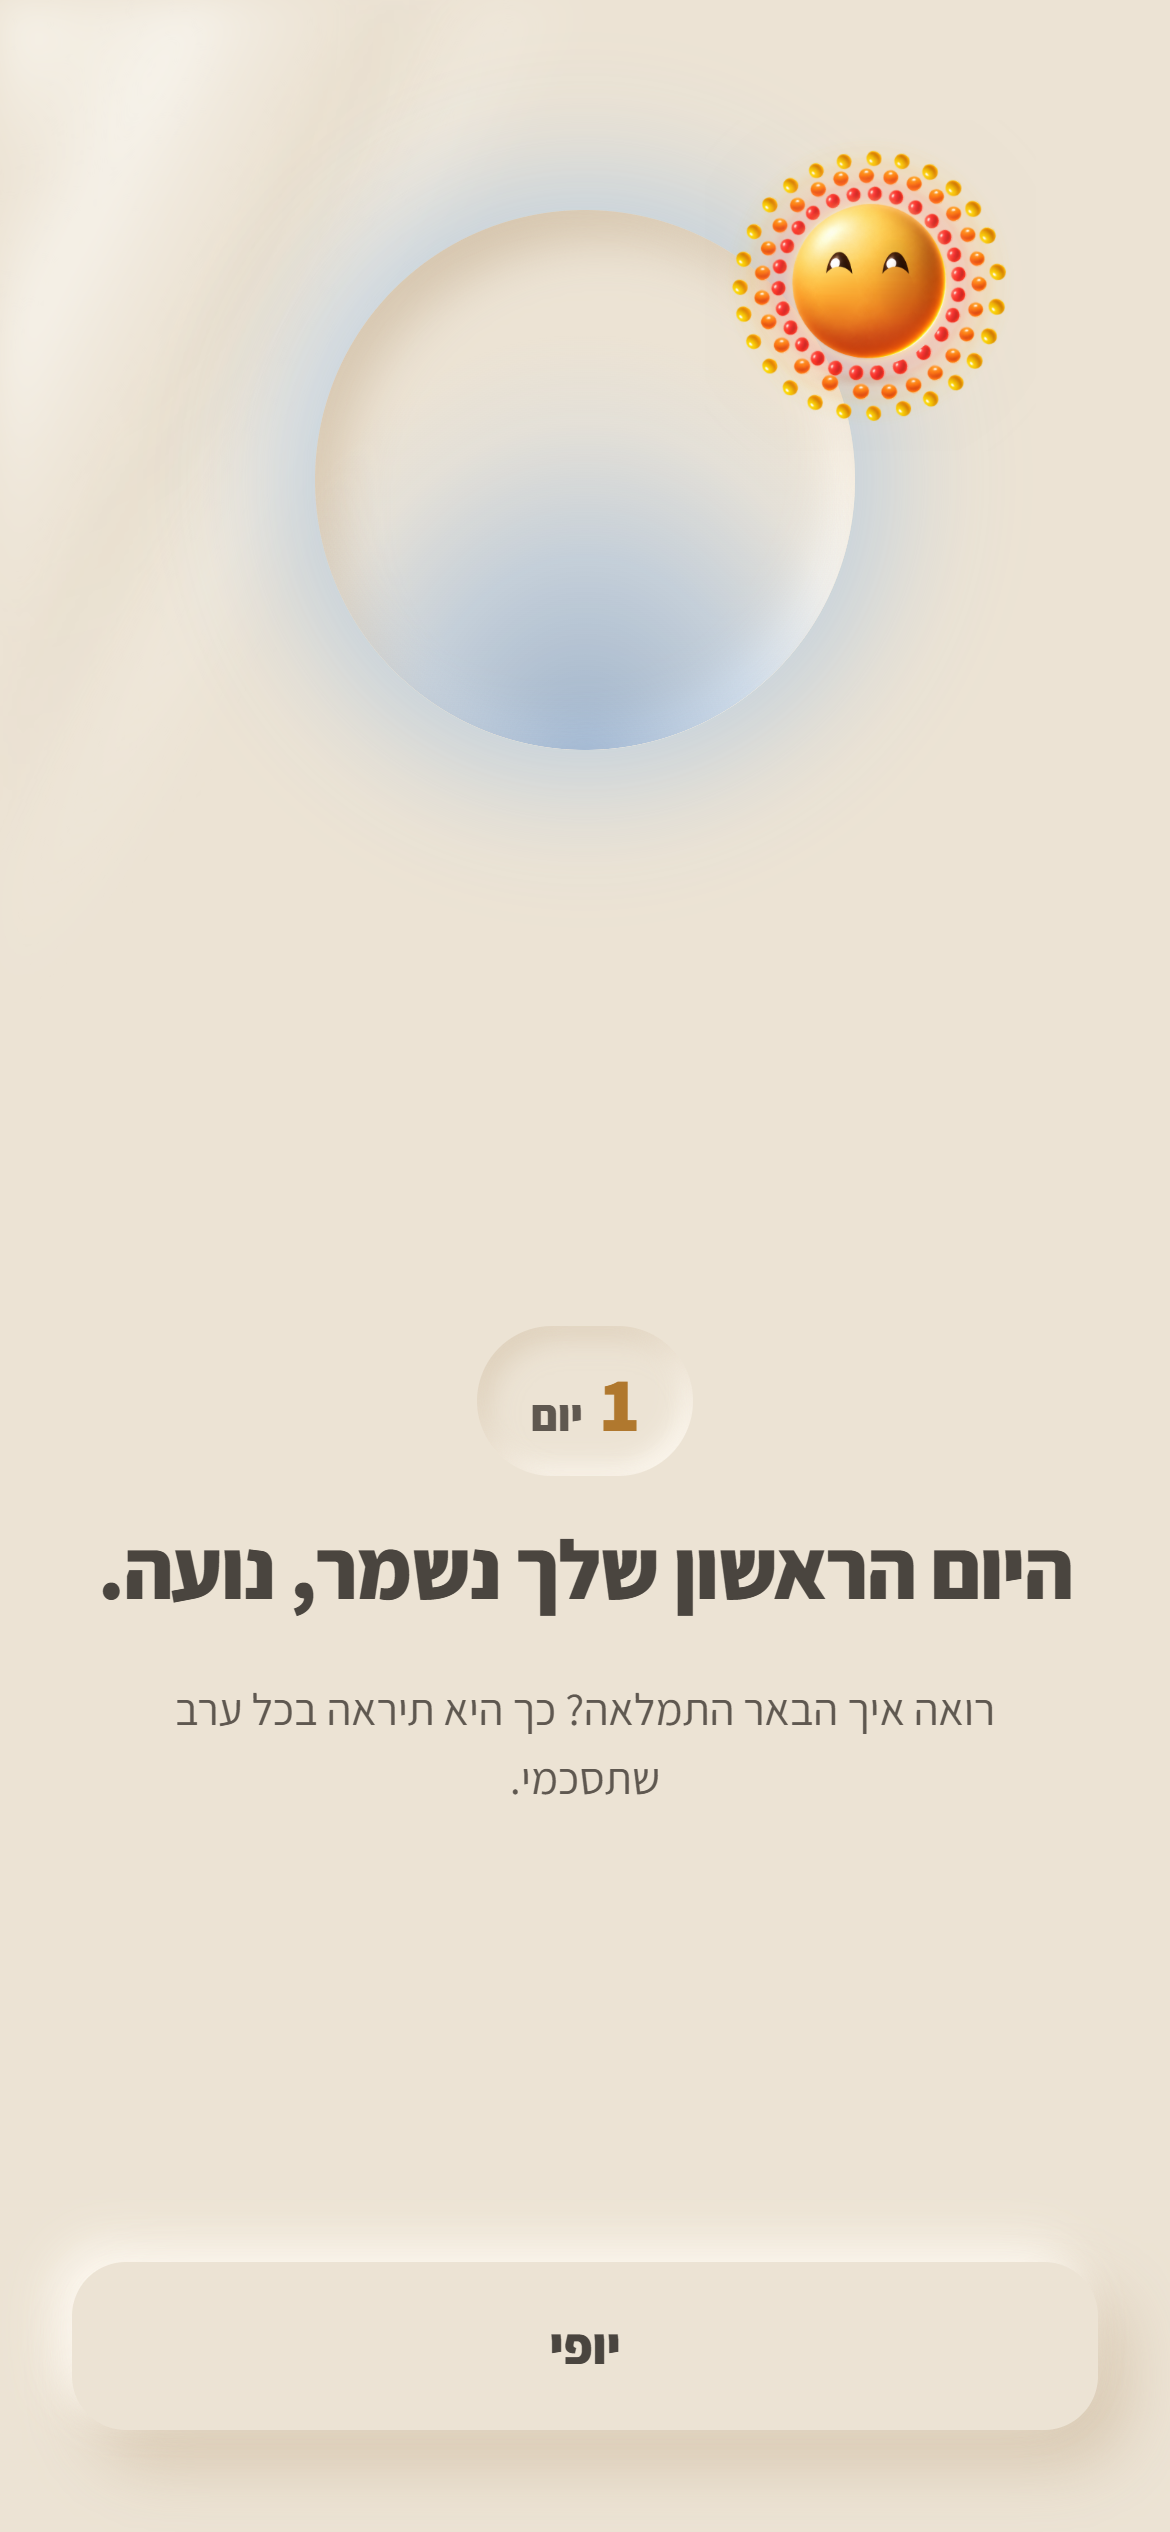
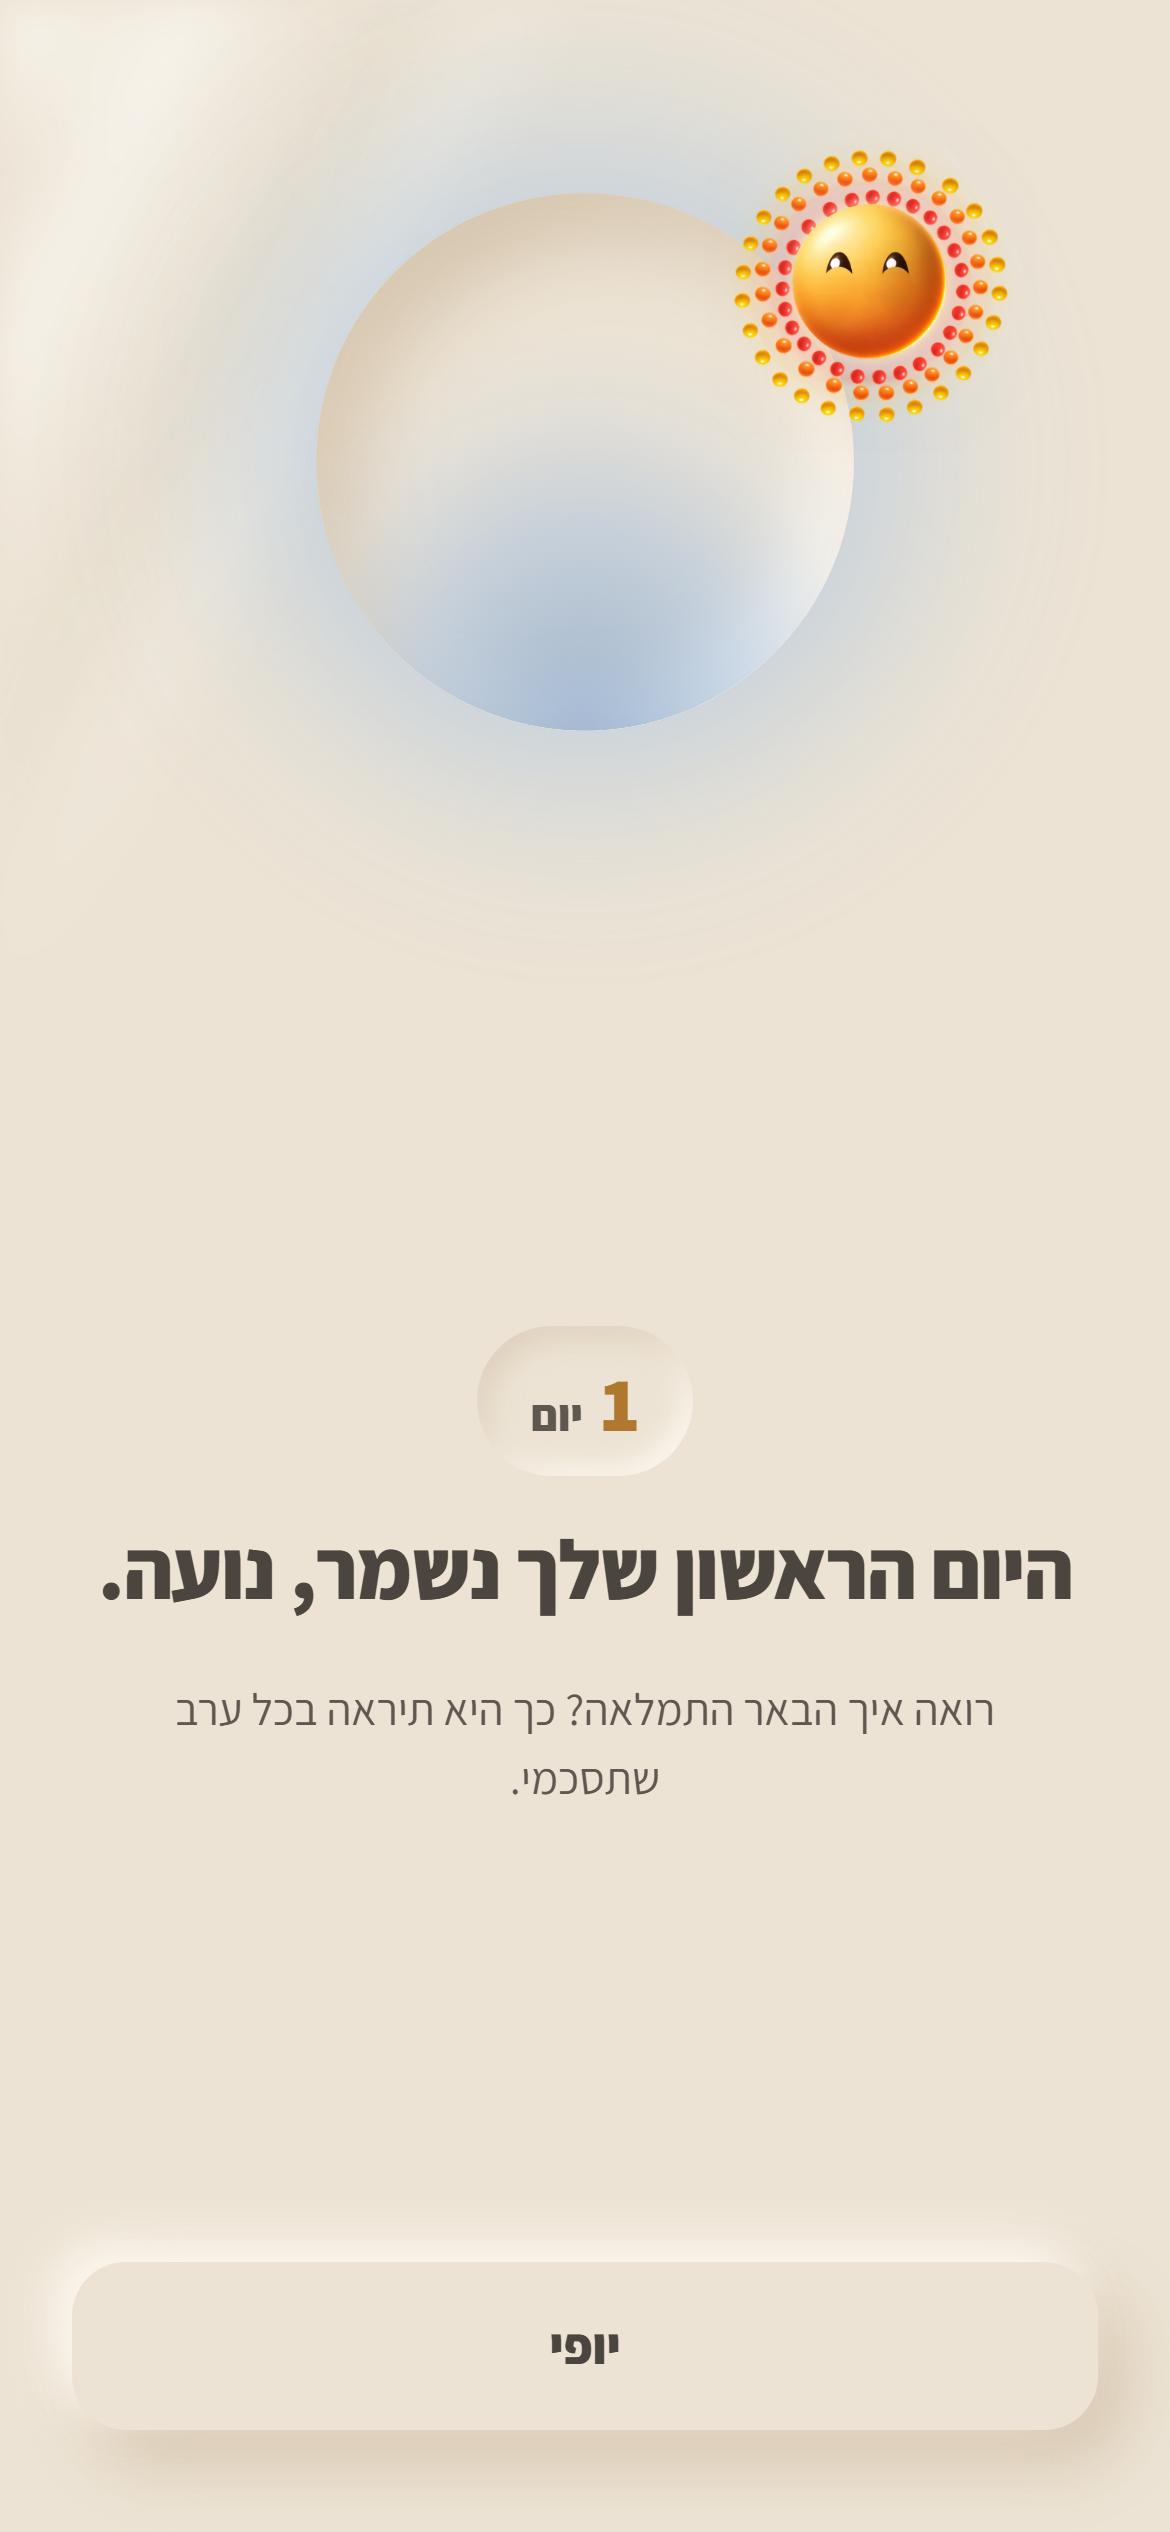
First run: the well grows by transform, not by width and height

diff --git a/review/first-6/index.html b/review/first-6/index.html
@@ -128,12 +128,12 @@ html,body{margin:0;height:100%;background:var(--g);color:var(--ink);font-family:
 .colon{font-size:30px;font-weight:800;position:relative}
 /* 5 · the reflection: the well of סיום יום at the top, filling as she answers */
 .well{position:absolute;z-index:1;left:calc(50% - 56px);top:34px;width:112px;height:112px;border-radius:50%;overflow:hidden;opacity:0;
-  transform:scale(.8);transition:opacity .6s,transform .8s cubic-bezier(.2,.9,.3,1),width .8s,height .8s,left .8s,top .8s;
+  transform:scale(.8);transition:opacity .6s,transform .8s cubic-bezier(.2,.9,.3,1),box-shadow .8s;
   box-shadow:inset 7px 9px 16px var(--sh),inset -7px -7px 15px var(--lit),0 0 0 1px rgba(255,255,255,.4)}
 .light{position:absolute;inset:0;border-radius:50%;transition:background .9s ease,box-shadow .9s;
   background:radial-gradient(85% 4% at 50% 104%,rgba(77,127,190,.5),transparent 78%)}
 .s.at-8 .well,.s.at-9 .well,.s.at-10 .well{opacity:1;transform:none}
-.s.at-10 .well{left:calc(50% - 90px);top:70px;width:180px;height:180px;box-shadow:inset 7px 9px 16px var(--sh),inset -7px -7px 15px var(--lit),0 0 40px 12px rgba(140,184,232,.45)}
+.s.at-10 .well{transform:translateY(64px) scale(1.6);box-shadow:inset 4px 6px 10px var(--sh),inset -4px -4px 9px var(--lit),0 0 24px 6px rgba(140,184,232,.45)}
 .s.at-8 #beem,.s.at-9 #beem{left:14px;top:46px;transform:scale(.42)}
 .s.at-10 #beem{left:calc(50% + 40px);top:40px;transform:scale(.48)}
 .s.at-11 #beem{left:calc(50% - 92px);top:12%;transform:scale(.8)}
